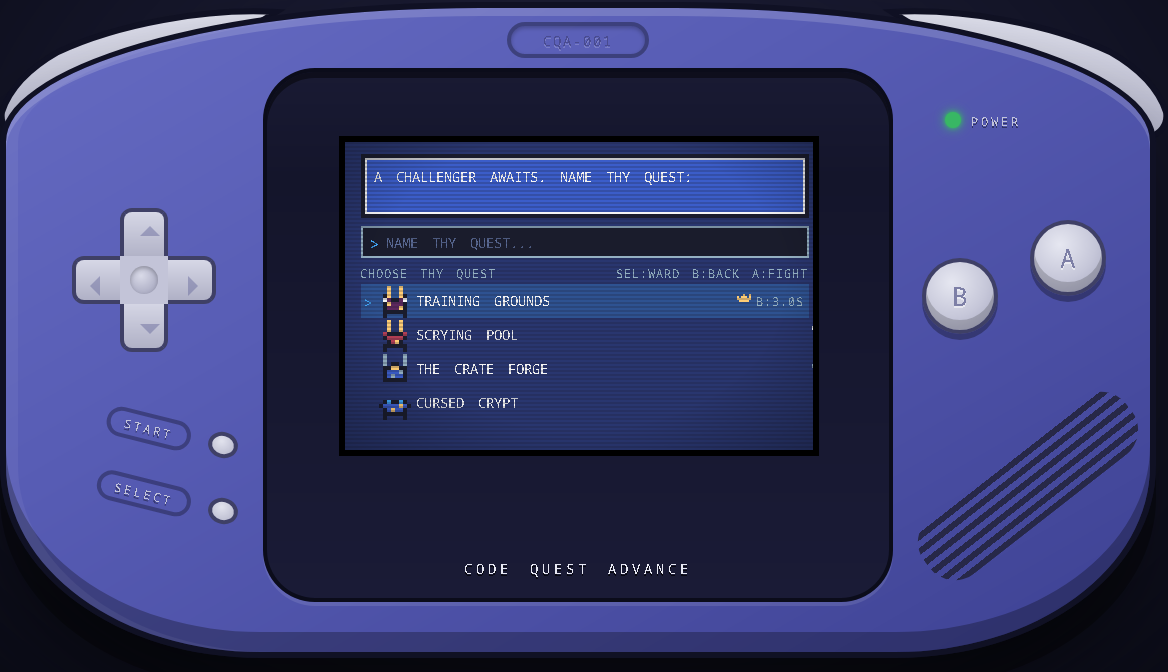
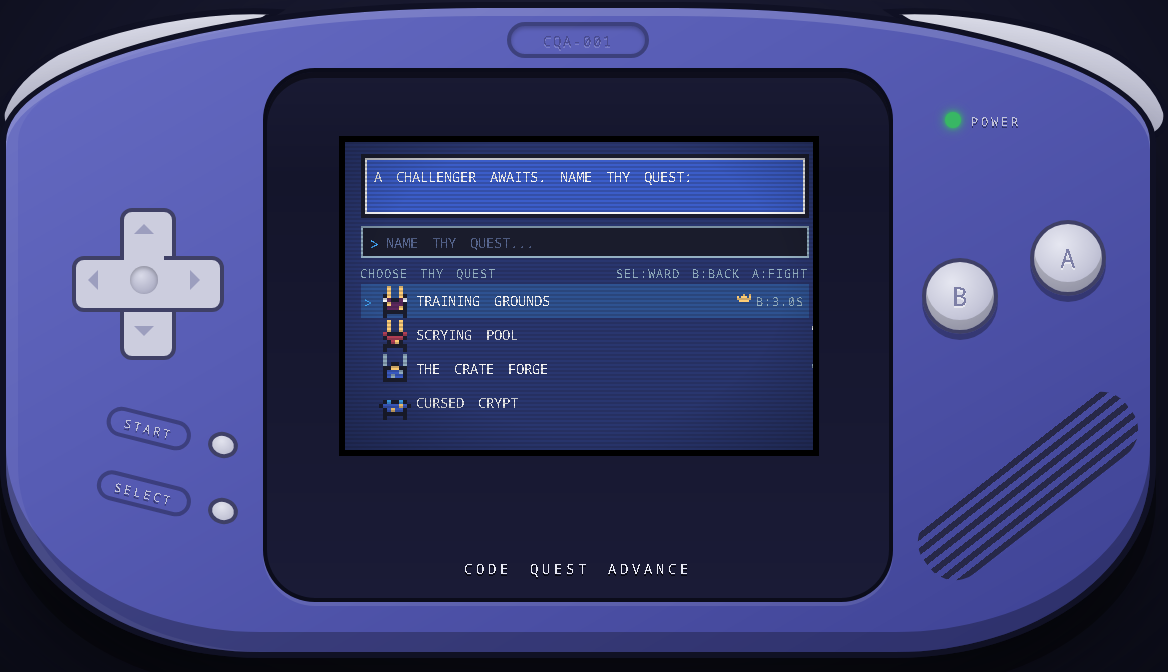
D-pad: one continuous plus, center square contained in the outline
The center square previously overhung the arms' dark borders and the
four arm pills each carried their own outline. The plus is now drawn
as two overlapping outlined bars with a patch hiding the crossing
lines, a single flat fill (mismatched gradients made the center read
as a separate square), and transparent hit-area arms carrying the
arrows and pressed-state overlay. Verified against the reference at 3x
zoom; screenshots regenerated.

Changed region(s): [[0.0616, 0.3125, 0.2158, 0.5625]]

diff --git a/src/styles.css b/src/styles.css
@@ -199,12 +199,36 @@ html, body {
   width: 72px;
   height: 72px;
 }
+/* one continuous plus: two overlapping outlined bars + a patch over the
+   crossing lines; the arm divs are transparent hit areas on top */
+#dpad::before {
+  content: '';
+  position: absolute;
+  left: 24px; top: 0;
+  width: 24px; height: 72px;
+  background: #cccdde;
+  border: 2px solid #3f4066;
+  border-radius: 6px;
+  z-index: 0;
+}
+#dpad::after {
+  content: '';
+  position: absolute;
+  left: 0; top: 24px;
+  width: 72px; height: 24px;
+  background: #cccdde;
+  border: 2px solid #3f4066;
+  border-radius: 6px;
+  z-index: 0;
+}
 .dpad-btn {
   position: absolute;
-  background: linear-gradient(#d6d7e6, #b0b1c6);
-  border: 2px solid #3f4066;
+  background: none;
+  border: 0;
+  z-index: 2;
   cursor: pointer;
 }
+.dpad-btn.pressed { background: rgba(255,255,255,.3); }
 .dpad-btn::after {
   content: '';
   position: absolute;
@@ -212,26 +236,28 @@ html, body {
   pointer-events: none;
   opacity: .5;
 }
-.dpad-up::after    { left: 8px; top: 7px;    border-bottom-color: #6e70a0; border-top-width: 0; }
-.dpad-down::after  { left: 8px; bottom: 7px; border-top-color: #6e70a0; border-bottom-width: 0; }
-.dpad-left::after  { top: 8px; left: 7px;    border-right-color: #6e70a0; border-left-width: 0; }
-.dpad-right::after { top: 8px; right: 7px;   border-left-color: #6e70a0; border-right-width: 0; }
+.dpad-up::after    { left: 7px; top: 8px;    border-bottom-color: #6e70a0; border-top-width: 0; }
+.dpad-down::after  { left: 7px; bottom: 8px; border-top-color: #6e70a0; border-bottom-width: 0; }
+.dpad-left::after  { top: 7px; left: 8px;    border-right-color: #6e70a0; border-left-width: 0; }
+.dpad-right::after { top: 7px; right: 8px;   border-left-color: #6e70a0; border-right-width: 0; }
 .dpad-btn.pressed, .ab.pressed, .pill.pressed { filter: brightness(1.45); }
-.dpad-up    { left: 24px; top: 0;    width: 24px; height: 25px; border-radius: 6px 6px 0 0; border-bottom: 0; }
-.dpad-down  { left: 24px; bottom: 0; width: 24px; height: 25px; border-radius: 0 0 6px 6px; border-top: 0; }
-.dpad-left  { left: 0;    top: 24px; width: 25px; height: 24px; border-radius: 6px 0 0 6px; border-right: 0; }
-.dpad-right { right: 0;   top: 24px; width: 25px; height: 24px; border-radius: 0 6px 6px 0; border-left: 0; }
+.dpad-up    { left: 24px; top: 0;    width: 24px; height: 26px; border-radius: 6px 6px 0 0; }
+.dpad-down  { left: 24px; bottom: 0; width: 24px; height: 26px; border-radius: 0 0 6px 6px; }
+.dpad-left  { left: 0;    top: 24px; width: 26px; height: 24px; border-radius: 6px 0 0 6px; }
+.dpad-right { right: 0;   top: 24px; width: 26px; height: 24px; border-radius: 0 6px 6px 0; }
 .dpad-core {
+  /* covers the bars' crossing lines so the plus outline reads as one shape */
   position: absolute;
-  left: 24px; top: 24px;
-  width: 24px; height: 24px;
-  background: #c3c4d8;
+  left: 26px; top: 24px;
+  width: 20px; height: 24px;
+  background: #cccdde;
+  z-index: 1;
   pointer-events: none;
 }
 .dpad-core::after {
   content: '';
   position: absolute;
-  left: 5px; top: 5px;
+  left: 3px; top: 5px;
   width: 14px; height: 14px;
   border-radius: 50%;
   background: radial-gradient(circle at 40% 35%, #d9dae8, #9d9eb8);
